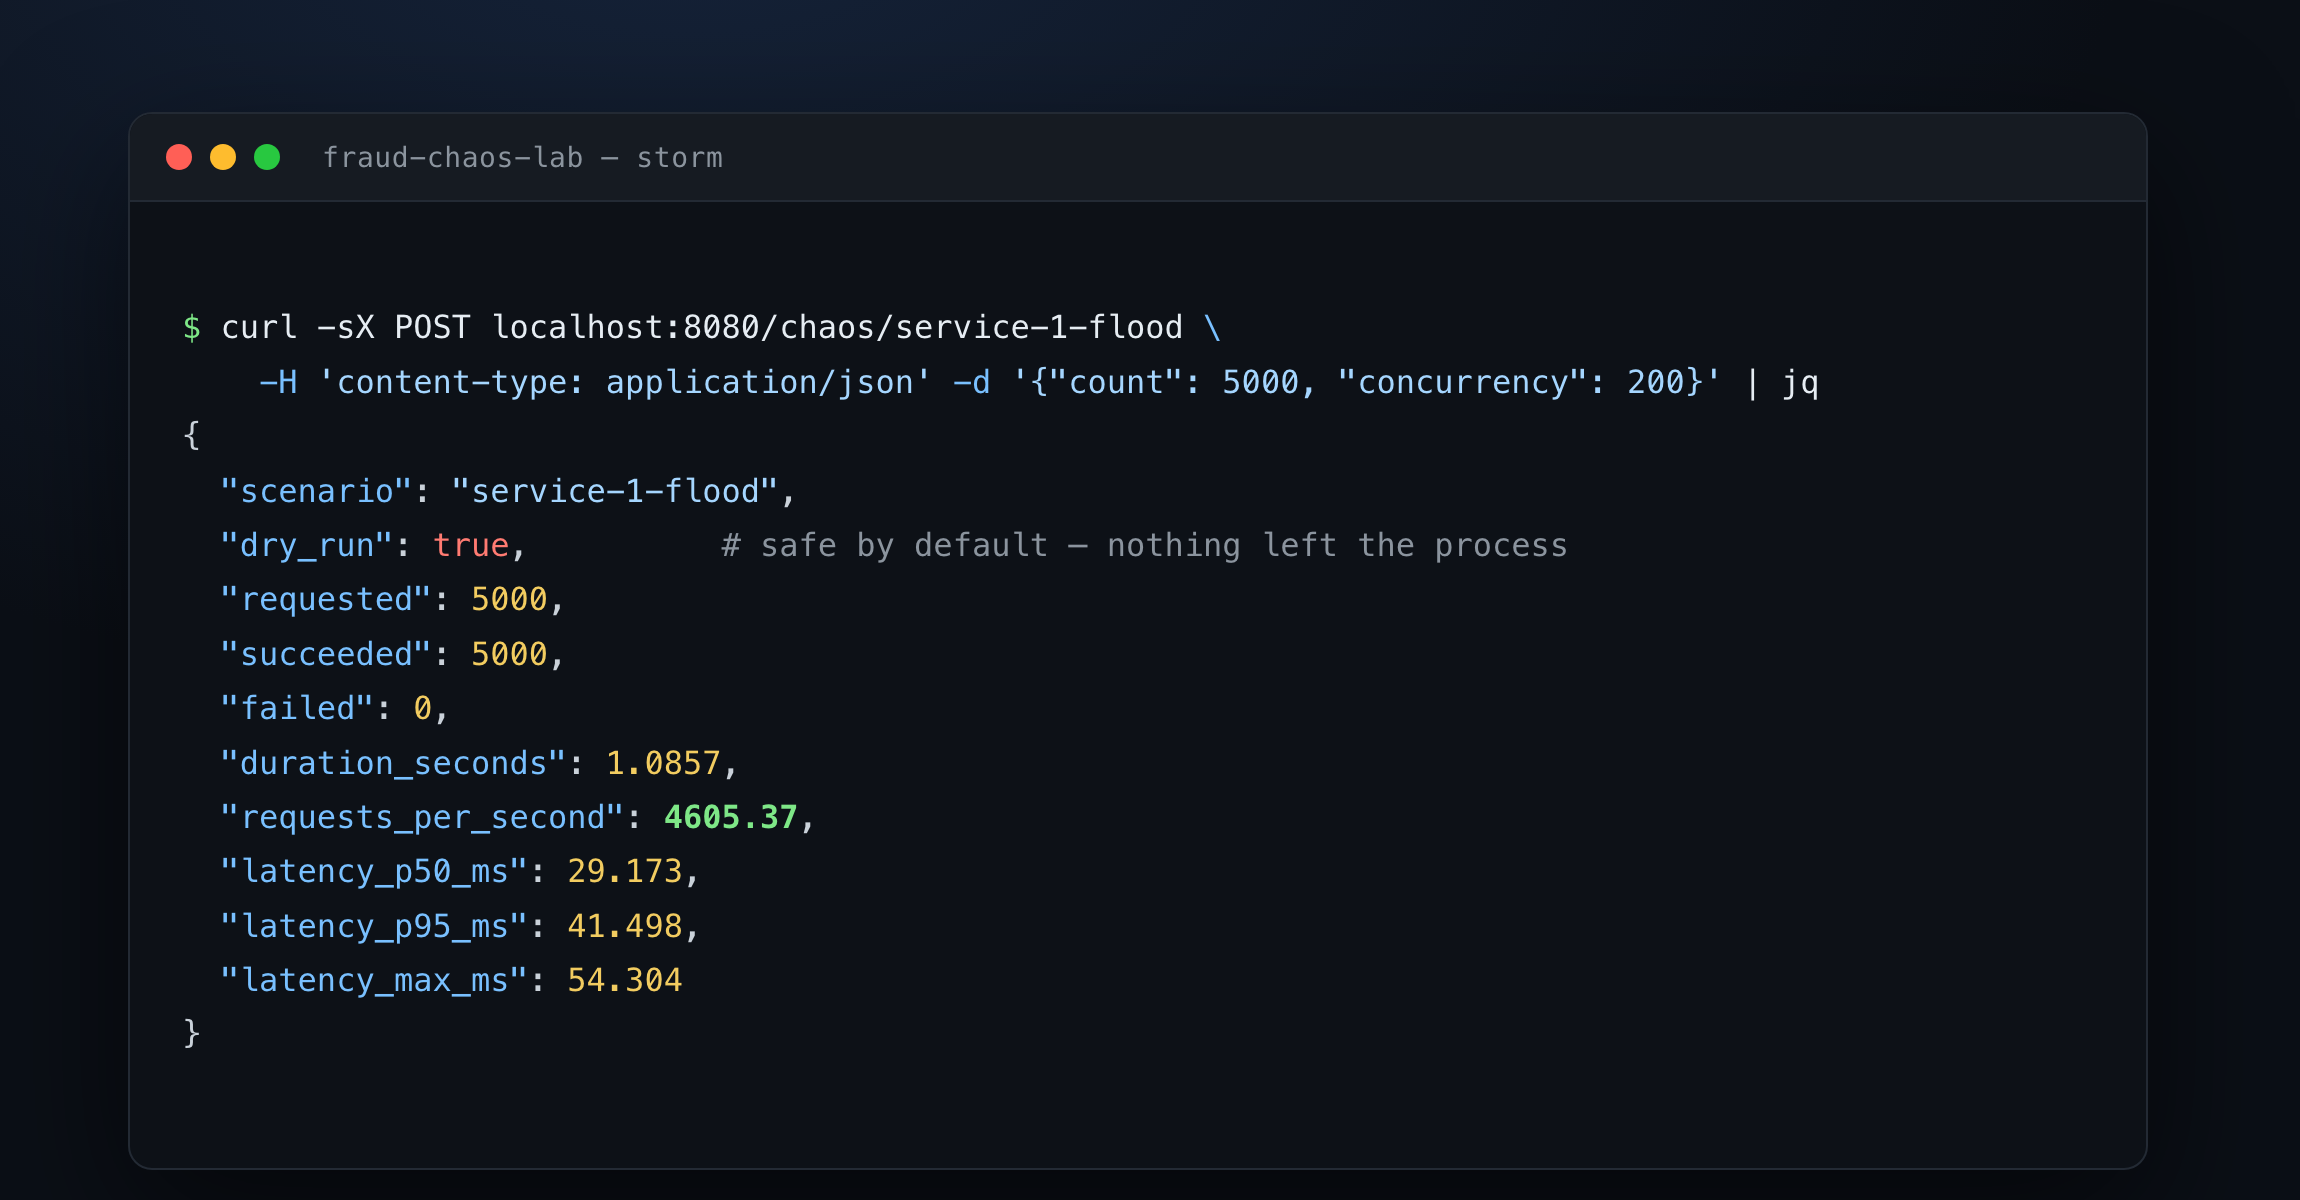
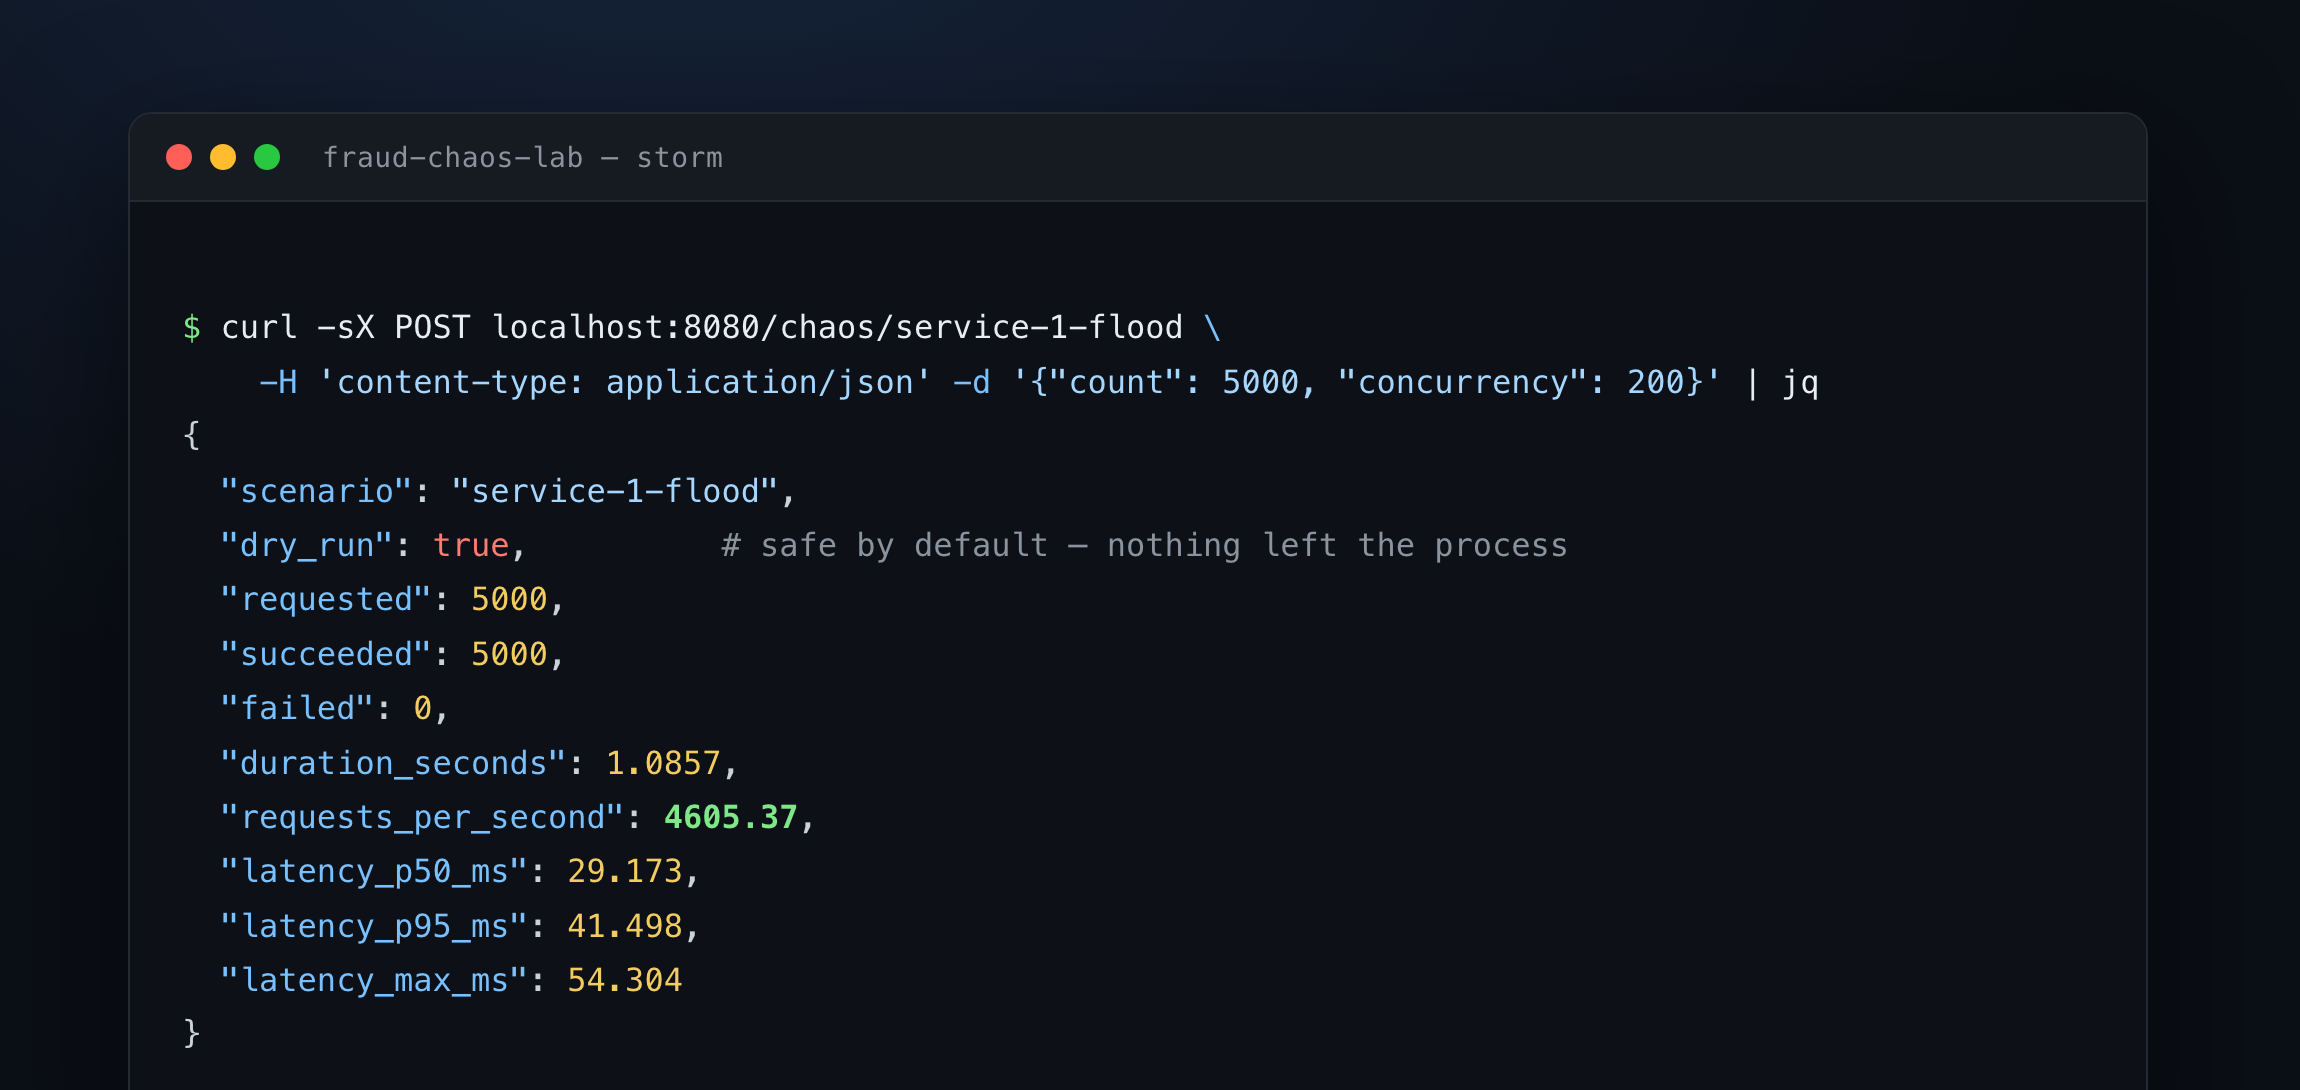
Update README.md and images: enhance API documentation with new 'Try it out' feature and remove outdated ReDoc image

diff --git a/README.md b/README.md
@@ -110,11 +110,13 @@ Then open <http://localhost:8080/docs> for interactive API docs:
   <img src="docs/img/api-docs.png" alt="Swagger UI listing the ops and chaos endpoints" width="860">
 </p>
 
-A ReDoc rendering is also served at <http://localhost:8080/redoc>:
+Expand any endpoint, hit **Execute**, and see the live response:
 
 <p align="center">
-  <img src="docs/img/api-redoc.png" alt="ReDoc rendering of the Fraud Chaos Lab API" width="860">
+  <img src="docs/img/api-try.png" alt="Swagger UI Try it out: POST /chaos/service-1-flood executed, showing the 200 response body" width="820">
 </p>
+
+A ReDoc rendering is also served at <http://localhost:8080/redoc>.
 
 Or fire a storm from the shell:
 